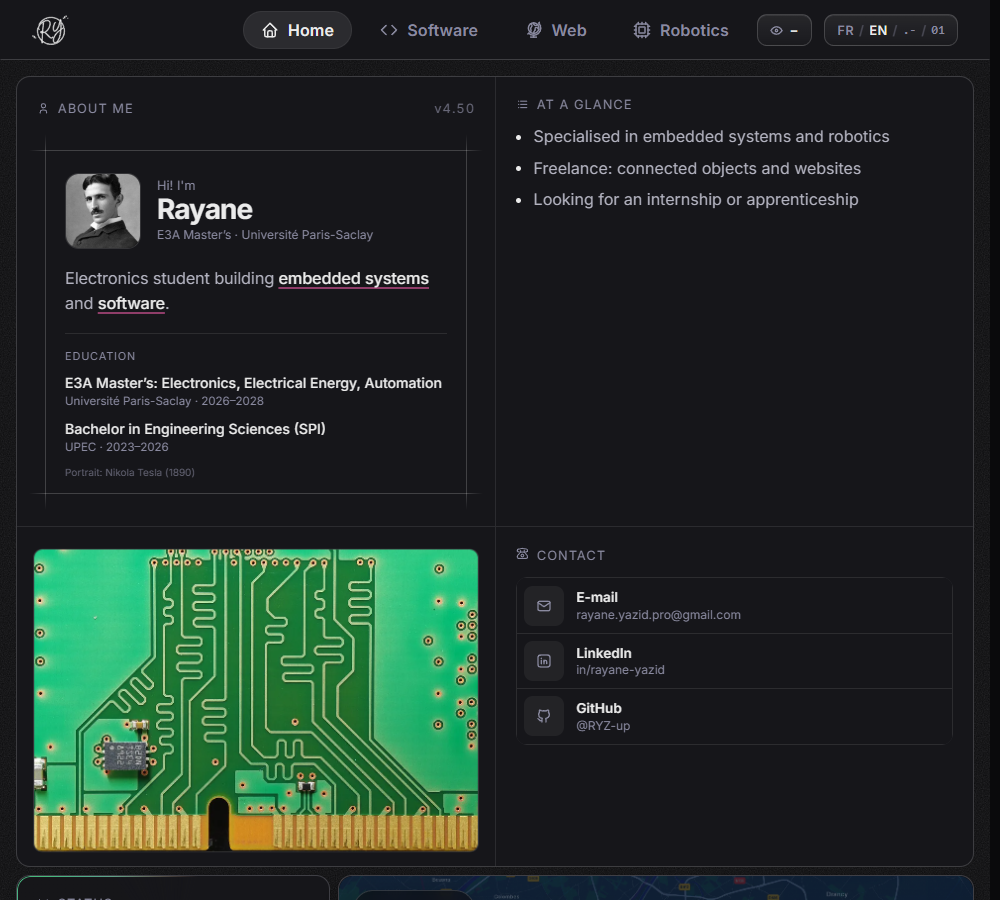
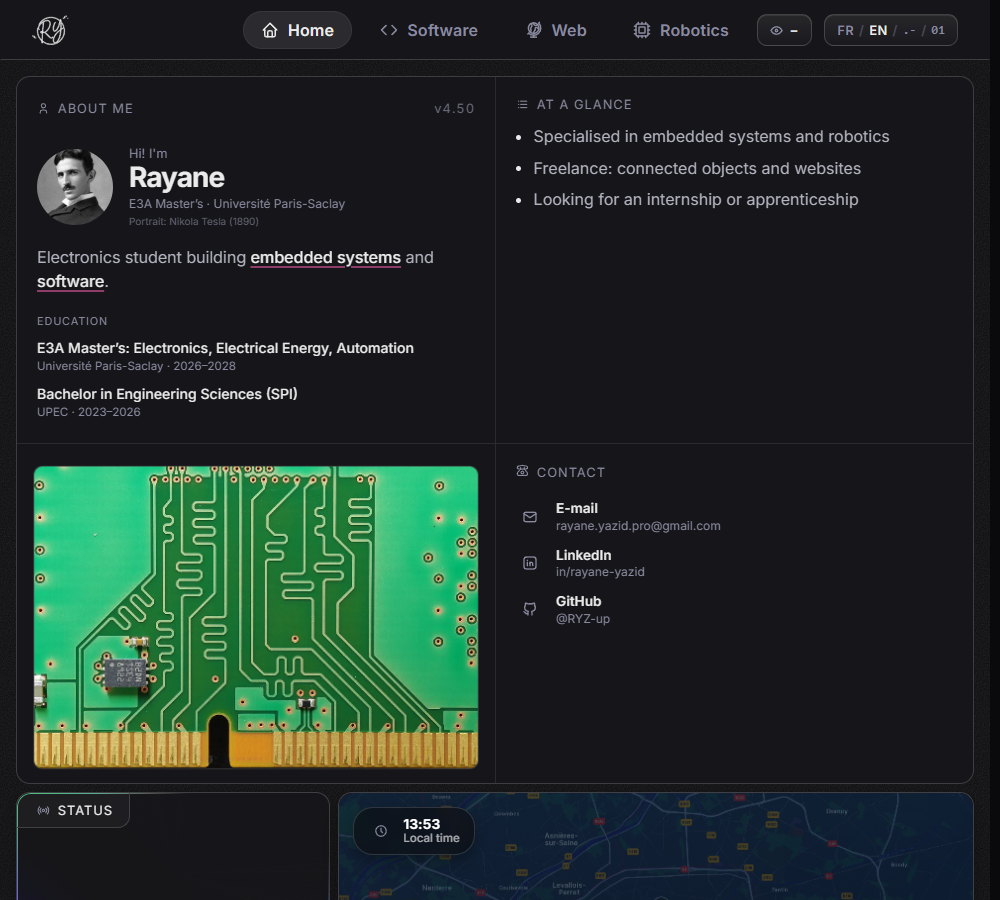
Cards: folder-tab titles, scroll reveal, softer hover; Lenis smooth scrolling on desktop; robotics only in the photo stack, software and web in the colour grid

diff --git a/src/hooks/useRevealOnScroll.js b/src/hooks/useRevealOnScroll.js
@@ -1,0 +1,42 @@
+import { useEffect } from 'react';
+
+// Cards fade and rise into place the first time they enter the screen,
+// slightly staggered. Without IntersectionObserver (or with reduced motion)
+// nothing is hidden at all.
+export default function useRevealOnScroll(selector) {
+  useEffect(() => {
+    if (typeof IntersectionObserver === 'undefined') return undefined;
+    if (window.matchMedia('(prefers-reduced-motion: reduce)').matches) return undefined;
+    const els = [...document.querySelectorAll(selector)];
+    const root = document.documentElement;
+    root.classList.add('reveal-ready');
+    let batch = 0;
+    let timer = 0;
+    const io = new IntersectionObserver(
+      entries => {
+        for (const e of entries) {
+          if (!e.isIntersecting) continue;
+          e.target.style.setProperty('--reveal-delay', `${Math.min(batch, 6) * 70}ms`);
+          batch++;
+          e.target.classList.add('is-revealed');
+          io.unobserve(e.target);
+        }
+        clearTimeout(timer);
+        timer = setTimeout(() => (batch = 0), 120);
+      },
+      { rootMargin: '0px 0px -8% 0px', threshold: 0.08 }
+    );
+    els.forEach(el => io.observe(el));
+    return () => {
+      io.disconnect();
+      clearTimeout(timer);
+      root.classList.remove('reveal-ready');
+    };
+  }, [selector]);
+}
+
+/** Drop it next to the elements to reveal: it runs once they are mounted. */
+export function RevealOnScroll({ selector }) {
+  useRevealOnScroll(selector);
+  return null;
+}

diff --git a/src/components/ui/BentoCard/BentoCard.css b/src/components/ui/BentoCard/BentoCard.css
@@ -1,7 +1,8 @@
 .bento-grid-card {
+  --card-pad: 1.25rem;
   width: 100%;
   height: 100%;
-  padding: 1.25em;
+  padding: var(--card-pad);
 }
 
 @media (max-width: 700px) {
@@ -9,7 +10,7 @@
      em of inset is a bigger share of the width, and it was crowding the
      content instead of framing it. */
   .bento-grid-card {
-    padding: 1em;
+    --card-pad: 1rem;
   }
 
   /* Phones: a second hairline frame 6px inside the card's border (an
@@ -28,4 +29,31 @@
   display: flex;
   flex-direction: column;
   height: 100%;
+}
+
+/* Folder-tab label: each card's title sits in a tab tucked into the card's
+   top-left corner (same curve as the card), like a binder divider. */
+.bento-grid-card .card-header__label {
+  margin: calc(-1 * var(--card-pad)) 0 0 calc(-1 * var(--card-pad));
+  padding: 0.6rem 1rem 0.55rem var(--card-pad);
+  border-right: 1px solid var(--card-outline, #3f3f45);
+  border-bottom: 1px solid var(--card-outline, #3f3f45);
+  border-radius: 13px 0 12px 0;
+  background: color-mix(in srgb, var(--text) 4%, transparent);
+  color: var(--text);
+  transition: background-color 0.45s cubic-bezier(0.22, 1, 0.36, 1), color 0.45s cubic-bezier(0.22, 1, 0.36, 1);
+}
+
+.bento-grid-card .card-header__label svg {
+  color: var(--dim);
+}
+
+@media (hover: hover) and (pointer: fine) {
+  .bento-grid-card:hover .card-header__label {
+    background: color-mix(in srgb, var(--text) 8%, transparent);
+  }
+
+  .bento-grid-card:hover .card-header__label svg {
+    color: var(--text);
+  }
 }

diff --git a/src/lib/smoothScroll.js b/src/lib/smoothScroll.js
@@ -1,0 +1,32 @@
+import Lenis from 'lenis';
+import 'lenis/dist/lenis.css';
+import { isLowPower } from './device.js';
+
+// Smoothed page scrolling (Lenis), desktop only: a mouse wheel on a real
+// pointer, not on phones (native touch scrolling is already smooth and Lenis
+// would only cost battery), not on small machines, not with reduced motion.
+// Inner scroll areas (project panel, chat, left rail, menus) keep scrolling
+// natively thanks to `allowNestedScroll`.
+export function startSmoothScroll() {
+  const ok =
+    !isLowPower &&
+    window.matchMedia('(hover: hover) and (pointer: fine)').matches &&
+    !window.matchMedia('(prefers-reduced-motion: reduce)').matches;
+  if (!ok) return null;
+  const lenis = new Lenis({
+    lerp: 0.11,
+    wheelMultiplier: 1,
+    allowNestedScroll: true,
+    autoRaf: true
+  });
+  // Pause while a full-screen layer (project panel, phone menu) locks the page.
+  const sync = () => {
+    const locked = document.documentElement.classList.contains('fab-locked') || document.body.style.overflow === 'hidden';
+    if (locked) lenis.stop();
+    else lenis.start();
+  };
+  const mo = new MutationObserver(sync);
+  mo.observe(document.documentElement, { attributes: true, attributeFilter: ['class'] });
+  mo.observe(document.body, { attributes: true, attributeFilter: ['style', 'class'] });
+  return lenis;
+}

diff --git a/src/components/ui/BorderGlow/BorderGlow.css b/src/components/ui/BorderGlow/BorderGlow.css
@@ -52,7 +52,7 @@
   /* No box-shadow transition: it cannot run on the compositor, and while it
      ran it dragged the lift/tilt animation of the same card back onto the
      main thread (Chrome: "incompatible animations") for every frame. */
-  transition: transform 0.35s var(--ease, ease-out), scale 0.35s var(--ease, ease-out), background-color 0.5s ease, border-color 0.5s ease;
+  transition: transform 0.7s cubic-bezier(0.22, 1, 0.36, 1), scale 0.7s cubic-bezier(0.22, 1, 0.36, 1), background-color 0.5s ease, border-color 0.5s ease;
   display: grid;
   border: 1px solid var(--card-outline, #3f3f45);
   background: var(--card-bg, #131316);
@@ -73,7 +73,7 @@
        tilt (eased in BorderGlow.jsx) has none: no transition restart per
        pointer frame. Leaving the card uses the base rule's transitions. */
     scale: 1.008;
-    transition: scale 0.35s var(--ease, ease-out), background-color 0.5s ease, border-color 0.5s ease;
+    transition: scale 0.6s cubic-bezier(0.22, 1, 0.36, 1), background-color 0.5s ease, border-color 0.5s ease;
     will-change: transform;
     box-shadow:
       rgba(0, 0, 0, 0.12) 0px 3px 6px,

diff --git a/src/components/cards/ProjectsChromaCard/ProjectsChromaCard.jsx b/src/components/cards/ProjectsChromaCard/ProjectsChromaCard.jsx
@@ -6,15 +6,16 @@ import { projectPath } from '../../../lib/routes.js';
 import { useI18n } from '../../../i18n/I18nProvider.jsx';
 import './ProjectsChromaCard.css';
 
-// Six public projects in black and white: the spotlight under the cursor brings
-// their colour back (React Bits ChromaGrid). A click opens the project.
+// The public software and web projects in black and white: the spotlight under
+// the cursor brings their colour back (React Bits ChromaGrid). A click opens
+// the project. (Robotics projects are in the photo stack card.)
 const PICKS = [
   { id: 'p13', accent: '#f5b941' },
   { id: 'p16', accent: '#ff7a3d' },
-  { id: 'p2', accent: '#4ade80' },
-  { id: 'p8', accent: '#38bdf8' },
   { id: 'p6', accent: '#a78bfa' },
-  { id: 'p9', accent: '#ff6ec7' }
+  { id: 'p9', accent: '#ff6ec7' },
+  { id: 'p7', accent: '#38bdf8' },
+  { id: 'p11', accent: '#4ade80' }
 ];
 
 const open = (view, id) => e => {

diff --git a/src/data/projects.js b/src/data/projects.js
@@ -3,8 +3,7 @@ import galleryData from './gallery.json';
 // Left column carousel: electronics photos (Wikimedia Commons, see public/images/tech/CREDITS.txt).
 export const galleryImages = ['pcb-traces', 'arduino', 'oscilloscope', 'raspberry-pi', 'robot-arm', 'pcb-macro'].map(n => `/images/tech/${n}.webp`);
 
-/** Stacked photos card: the best image of each public project (its grid
- *  cover), shuffled on every visit. Client sites are left out. */
+/** Stacked photos card: the robotics projects' covers, shuffled on every visit. */
 const shuffle = list => {
   const a = [...list];
   for (let i = a.length - 1; i > 0; i--) {
@@ -13,7 +12,7 @@ const shuffle = list => {
   }
   return a;
 };
-export const stackImages = shuffle(['p13', 'p16', 'p2', 'p8']).map(
+export const stackImages = shuffle(['p2', 'p3', 'p8', 'p1', 'p10']).map(
   id => `/images/projects/gallery/${id}/cover.webp`
 );
 

diff --git a/src/App.jsx b/src/App.jsx
@@ -23,6 +23,7 @@ import ChatCard from './components/cards/ChatCard/ChatCard.jsx';
 import ProjectsChromaCard from './components/cards/ProjectsChromaCard/ProjectsChromaCard.jsx';
 import GithubCard from './components/cards/GithubCard/GithubCard.jsx';
 import NowCard from './components/cards/NowCard/NowCard.jsx';
+import { RevealOnScroll } from './hooks/useRevealOnScroll.js';
 
 export default function App() {
   const { lang } = useI18n();
@@ -141,6 +142,7 @@ export default function App() {
           <NowCard />
         </div>
       </BorderGlowGroup>
+            <RevealOnScroll key={`reveal-${lang}`} selector=".main-grid > *" />
           </motion.div>
         )}
       </AnimatePresence>

diff --git a/src/main.jsx b/src/main.jsx
@@ -4,6 +4,7 @@ import App from './App.jsx';
 import ErrorBoundary from './components/layout/ErrorBoundary.jsx';
 import { I18nProvider } from './i18n/I18nProvider.jsx';
 import { isLowPower } from './lib/device.js';
+import { startSmoothScroll } from './lib/smoothScroll.js';
 import './styles/tokens.css';
 import './styles/global.css';
 import './styles/layout.css';
@@ -15,6 +16,7 @@ if ('scrollRestoration' in history) {
 window.scrollTo(0, 0);
 // Lets the CSS trim the heaviest paint effects on small machines (global.css).
 if (isLowPower) document.documentElement.classList.add('low-power');
+startSmoothScroll();
 
 createRoot(document.getElementById('root')).render(
   <StrictMode>

diff --git a/src/styles/layout.css b/src/styles/layout.css
@@ -308,3 +308,20 @@
     animation: none;
   }
 }
+
+/* Scroll reveal (useRevealOnScroll): cards fade and rise into place when they
+   first enter the screen. `translate`, not `transform`, so it never fights the
+   hover tilt. Only once the script is running, so nothing stays hidden. */
+.reveal-ready .main-grid > * {
+  animation: none;
+  opacity: 0;
+  translate: 0 22px;
+  transition:
+    opacity 0.8s cubic-bezier(0.22, 1, 0.36, 1) var(--reveal-delay, 0ms),
+    translate 0.9s cubic-bezier(0.22, 1, 0.36, 1) var(--reveal-delay, 0ms);
+}
+
+.reveal-ready .main-grid > .is-revealed {
+  opacity: 1;
+  translate: 0 0;
+}
